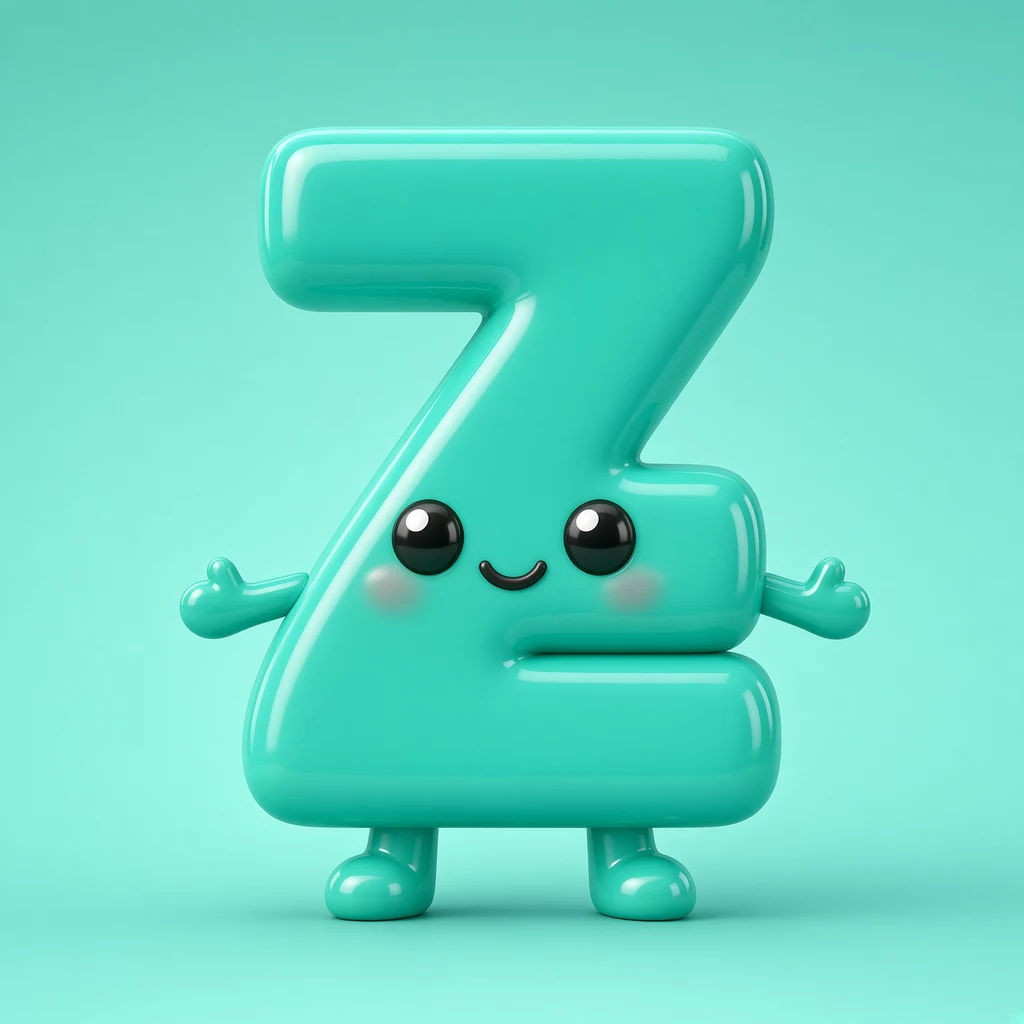
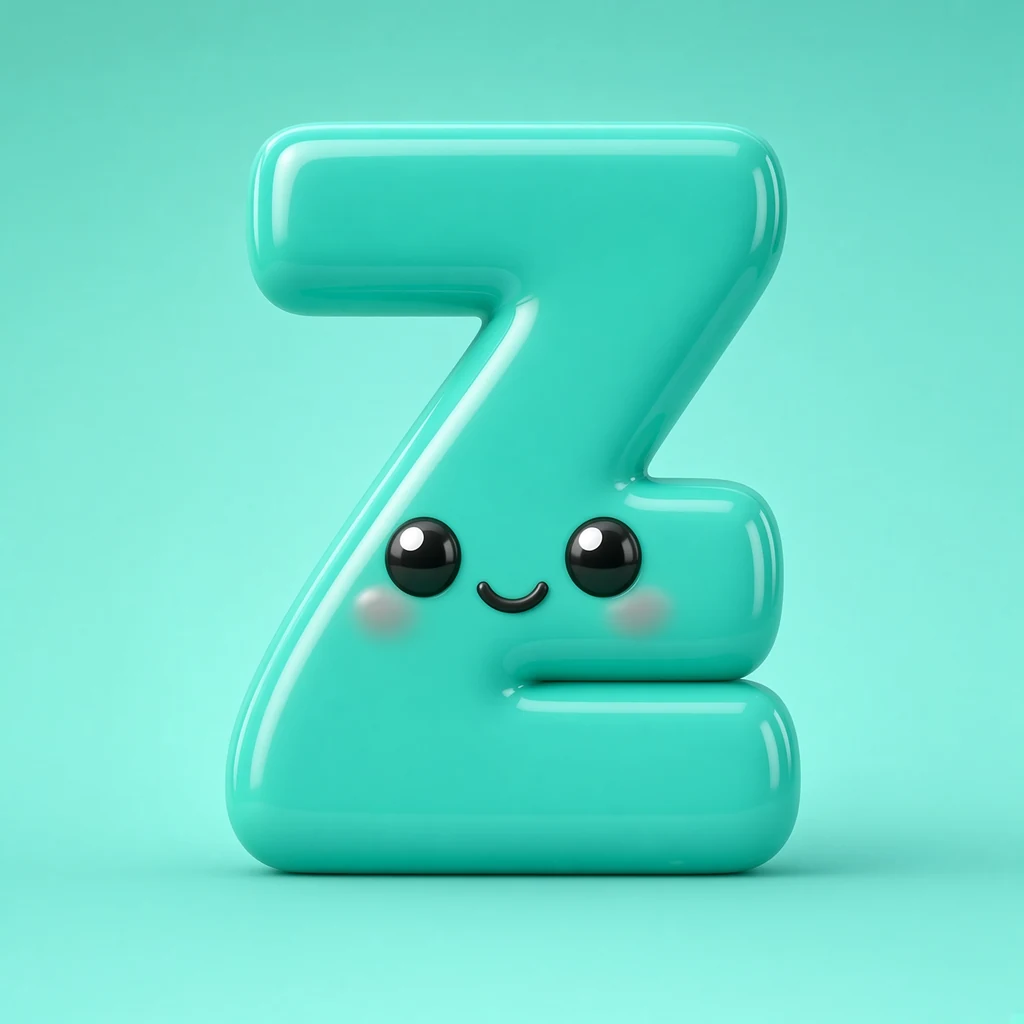
v0.188: Big Z thumb is just the Z, no extra blob.

Changed region(s): [[0.1562, 0.0938, 0.875, 0.9375]]

diff --git a/src/lib/version.ts b/src/lib/version.ts
@@ -12,7 +12,7 @@
  * Grok Publish: still remind at v0.070, v0.080… so the public link can match.
  */
 
-export const APP_VERSION = "0.187";
+export const APP_VERSION = "0.188";
 export const APP_VERSION_LABEL = `v${APP_VERSION}`;
 export const APP_SLUG = "abc-adventure";
 export const APP_DISPLAY_NAME = "ABC Adventure";

diff --git a/SESSION.md b/SESSION.md
@@ -1,6 +1,6 @@
 # Session compact — ABC Adventure
 
-**Version:** v0.187  
+**Version:** v0.188  
 **GitHub:** sh4gu4dummy-arch/abc-adventure `main`  
 **User tests in Grok live preview**, not APK, unless they ask.
 
@@ -32,6 +32,9 @@ really is done. Tap to play again (v0.129).
 | H heart | Crayon with two points | One-tip crayon; look-at-the-clip QA (not a tip-count law) |
 
 A–Z word videos exist. J–Z remade to locked sentences; A–I older unless later patched (G, H, fish, frog, etc.).
+
+## Big Z thumb (v0.188)
+Removed the extra purple blob on the right.
 
 ## Big Q thumb (v0.187)
 Oval with a real hole + tail. Meet unchanged.

diff --git a/PROJECT.md b/PROJECT.md
@@ -113,7 +113,7 @@ npm run build:apk      # only when asked
 
 ## Versioning & downloads
 
-- **Current version:** `0.187` (`v0.187`) — stored in `VERSION` and `src/lib/version.ts` (keep in sync).
+- **Current version:** `0.188` (`v0.188`) — stored in `VERSION` and `src/lib/version.ts` (keep in sync).
 
 ## GitHub + Grok Publish cadence
 
